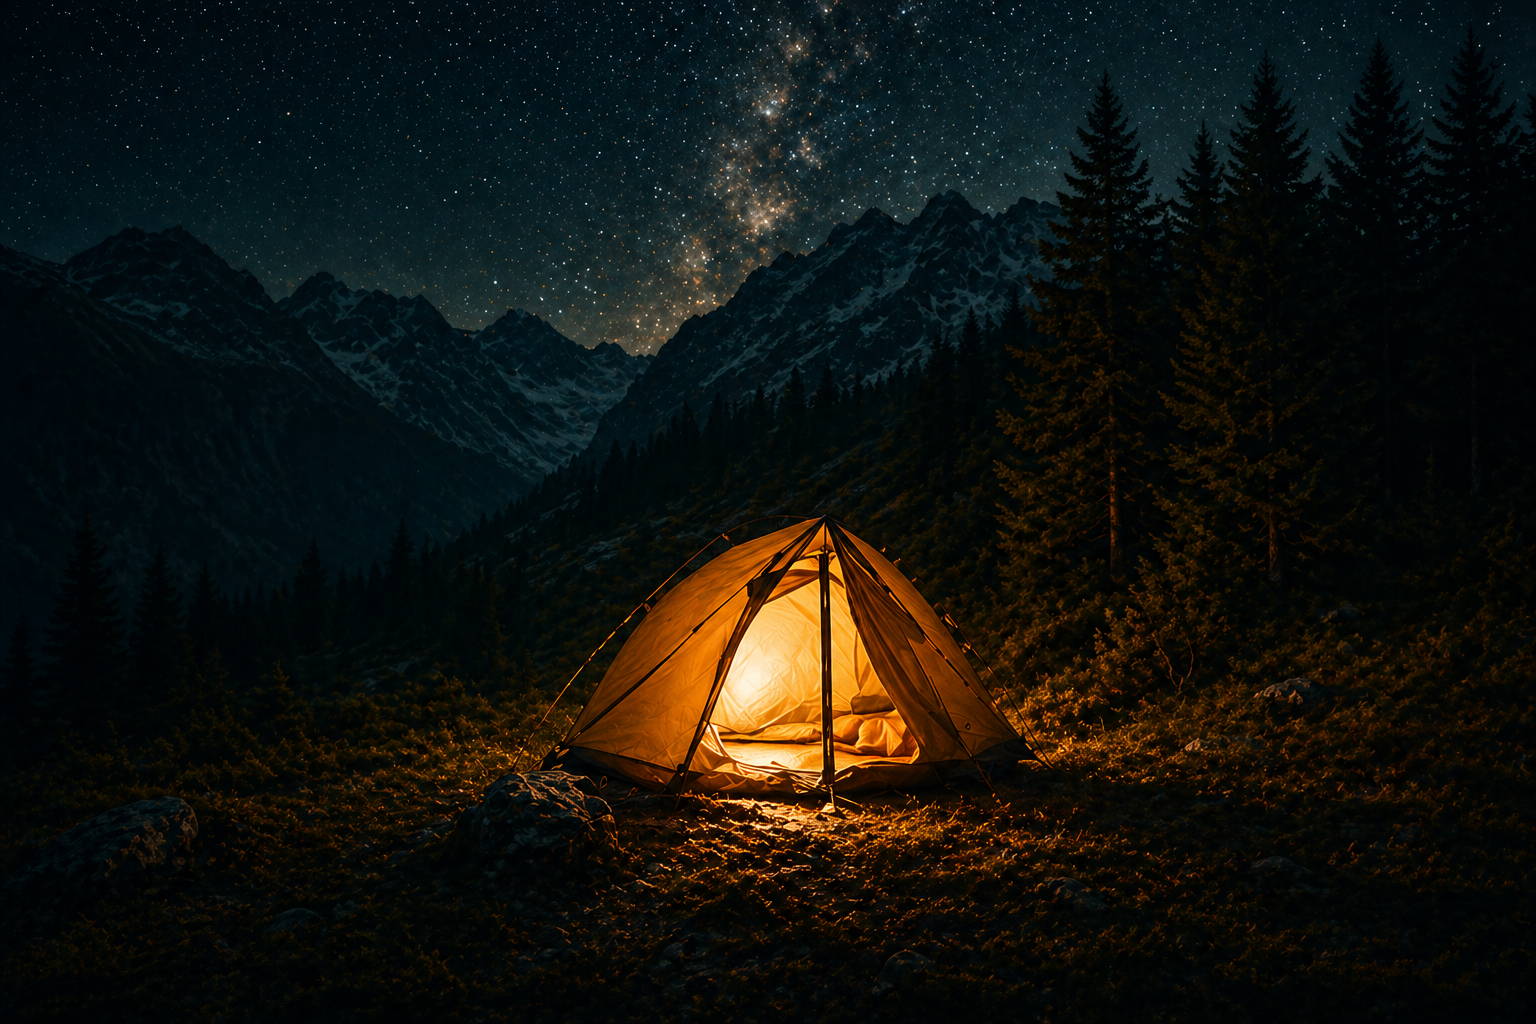
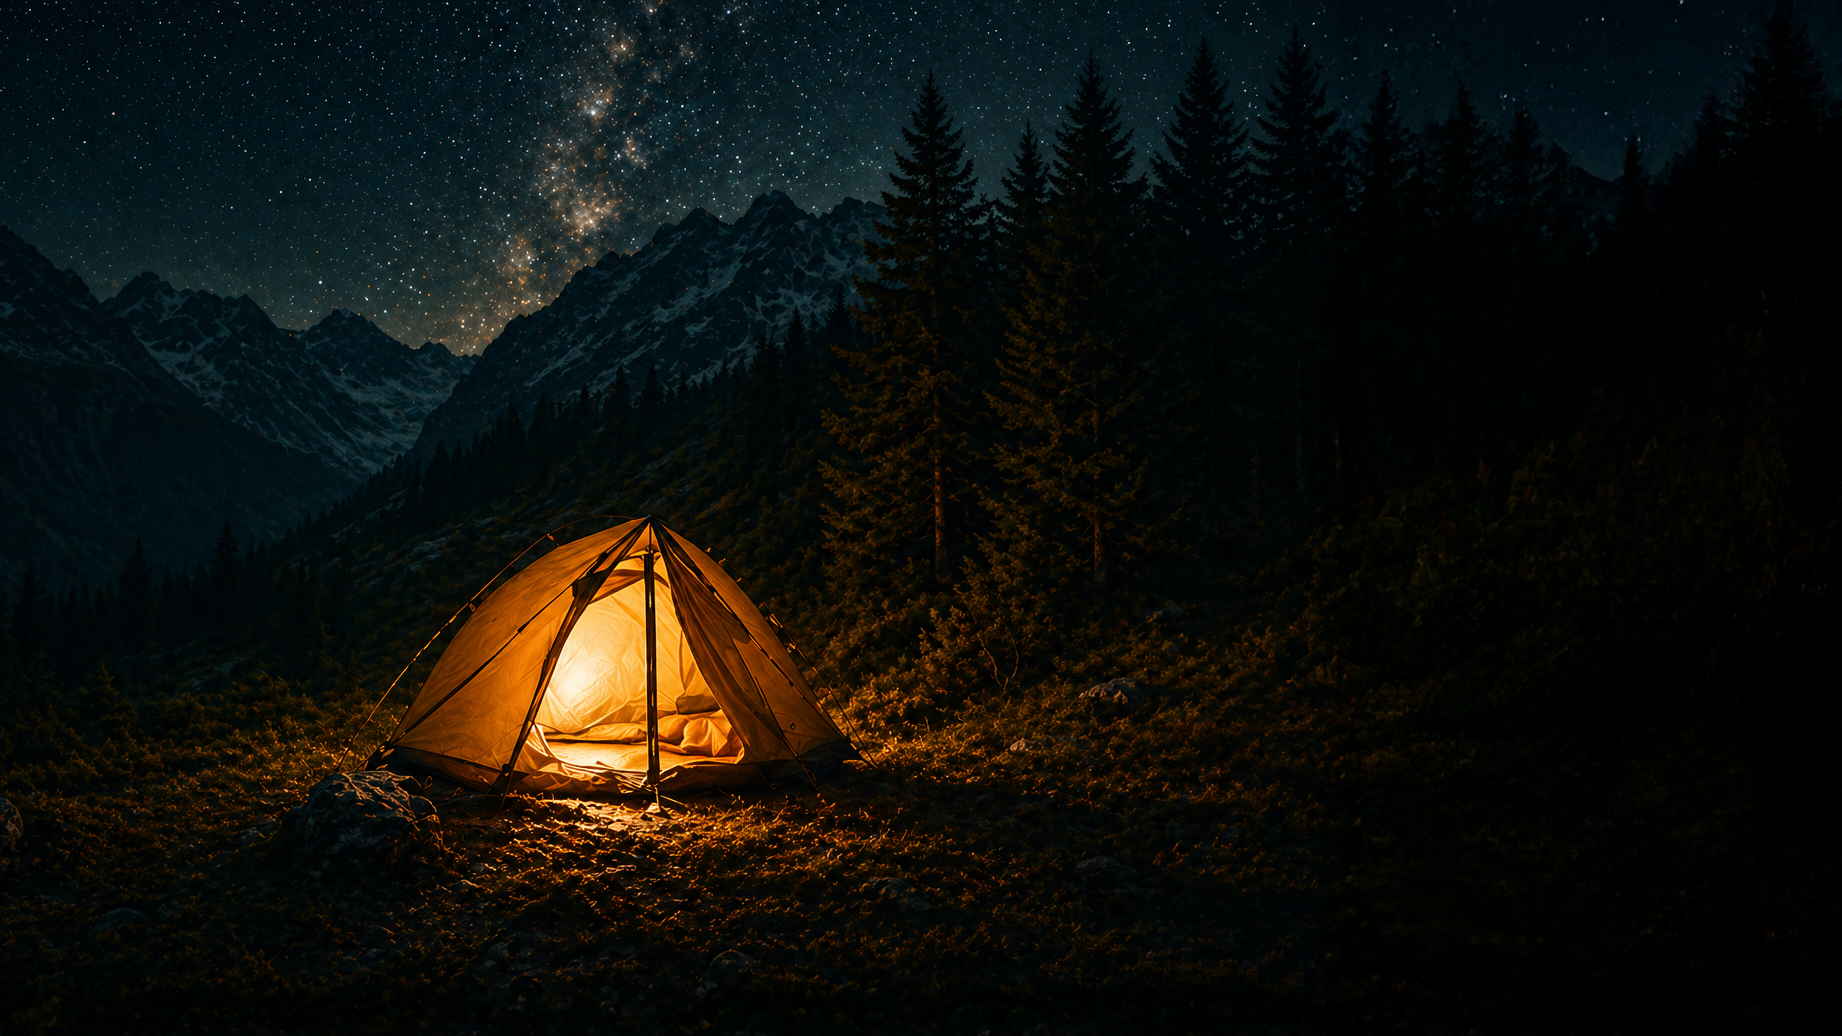
refactor(auth-v2): full-bleed tent hero, replace asset
Use one background image (object-left) for the full viewport; gradient scrim for form legibility. Replace public/auth/dark-glowing-tent.png with updated tent-left art from company assets.

diff --git a/src/components/auth/v2/AuthV2Shell.tsx b/src/components/auth/v2/AuthV2Shell.tsx
@@ -26,9 +26,9 @@ const HERO: Record<Mode, { title: ReactNode }> = {
   },
 }
 
-/** Northern-lights / aurora-style deep green base + glowing mint bands */
+/** Subtle northern-lights wash over the photo (keeps forest-green theme). */
 const auroraLayerClass =
-  'pointer-events-none absolute inset-0 [background:radial-gradient(ellipse_90%_55%_at_15%_15%,rgba(34,197,94,0.2),transparent_55%),radial-gradient(ellipse_70%_50%_at_85%_20%,rgba(16,185,129,0.16),transparent_50%),radial-gradient(ellipse_100%_60%_at_50%_85%,rgba(6,78,59,0.5),transparent_55%),linear-gradient(180deg,rgba(1,8,4,0.4)_0%,transparent_40%,rgba(1,8,4,0.5)_100%)]'
+  'pointer-events-none absolute inset-0 mix-blend-soft-light [background:radial-gradient(ellipse_90%_55%_at_15%_15%,rgba(34,197,94,0.12),transparent_55%),radial-gradient(ellipse_70%_50%_at_85%_20%,rgba(16,185,129,0.1),transparent_50%)]'
 
 type ShellProps = {
   mode: Mode
@@ -40,63 +40,64 @@ type ShellProps = {
 export function AuthV2Shell({ mode, children, stats, rating }: ShellProps) {
   const h = HERO[mode]
   return (
-    <div
-      className={cn(
-        'relative flex min-h-dvh w-full flex-col overflow-x-hidden text-white',
-        'bg-[#020a07]',
-      )}
-    >
+    <div className="relative min-h-dvh w-full overflow-x-hidden text-white">
+      {/* Full-bleed hero — tent composition on the left; form sits on the right over the same image */}
+      <Image
+        src={HERO_IMAGE}
+        alt=""
+        fill
+        className="object-cover object-left"
+        priority
+        sizes="100vw"
+      />
+      {/* Readability: light scrim on tent side, stronger on the right for the form */}
+      <div
+        className="absolute inset-0 bg-gradient-to-r from-black/25 via-[#010806]/35 to-[#010806]/78 md:via-[#010806]/40 md:to-[#010806]/85"
+        aria-hidden
+      />
       <div className={auroraLayerClass} aria-hidden />
-      <div className="relative z-[1] mx-auto flex min-h-dvh w-full max-w-[1920px] flex-1 flex-col md:flex-row">
-        {/* Visual column — stats sit on frosted glass at bottom of photo only */}
-        <div className="relative min-h-[min(52vh,520px)] w-full flex-shrink-0 md:min-h-dvh md:w-1/2 lg:w-[52%]">
-          <Image
-            src={HERO_IMAGE}
-            alt=""
-            fill
-            className="object-cover object-center"
-            priority
-            sizes="(min-width: 768px) 50vw, 100vw"
-          />
-          <div
-            className="absolute inset-0 bg-gradient-to-t from-[#010806] via-[#010806]/25 to-[#010806]/30 md:bg-gradient-to-r md:from-[#010806]/35 md:via-[#010806]/15 md:to-[#010806]/5"
-            aria-hidden
-          />
-          <div className="absolute inset-0 flex min-h-0 flex-col p-4 sm:p-5 md:p-8 lg:p-10">
-            <AuthV2TopBar />
-            <div className="mt-6 min-w-0 sm:mt-8 md:mt-10 lg:mt-12">
-              <h1 className="text-balance pr-1">{h.title}</h1>
-            </div>
-            <div className="mt-auto w-full min-w-0 pt-6 md:pt-8">
-              <div
-                className={cn(
-                  'w-full max-w-full rounded-2xl border border-white/20 bg-white/[0.08] p-3 shadow-[0_8px_32px_rgba(0,0,0,0.35)]',
-                  'backdrop-blur-xl backdrop-saturate-150 [box-shadow:inset_0_1px_0_0_rgba(255,255,255,0.12)]',
-                  'ring-1 ring-white/10 sm:p-4 md:rounded-3xl md:p-5',
-                )}
-              >
-                <AuthV2Stats
-                  stats={stats}
-                  rating={rating}
-                  className="!max-w-full gap-x-3 gap-y-3 sm:gap-4 md:gap-6 md:justify-center"
-                />
-              </div>
+
+      <div className="relative z-10 mx-auto flex min-h-dvh w-full max-w-[1920px] flex-col lg:flex-row">
+        {/* Left: wordmark, headline, frosted stats — over tent */}
+        <div
+          className={cn(
+            'flex min-h-[min(58vh,560px)] w-full min-w-0 flex-1 flex-col p-4 sm:p-5 md:p-8 lg:min-h-dvh lg:w-[48%] lg:max-w-[52%] lg:py-10',
+            'lg:pr-4',
+          )}
+        >
+          <AuthV2TopBar />
+          <div className="mt-6 min-w-0 sm:mt-8 md:mt-10 lg:mt-12">
+            <h1 className="text-balance pr-1">{h.title}</h1>
+          </div>
+          <div className="mt-auto w-full min-w-0 pt-6 lg:pt-8">
+            <div
+              className={cn(
+                'w-full max-w-full rounded-2xl border border-white/20 bg-white/[0.08] p-3 shadow-[0_8px_32px_rgba(0,0,0,0.35)]',
+                'backdrop-blur-xl backdrop-saturate-150 [box-shadow:inset_0_1px_0_0_rgba(255,255,255,0.12)]',
+                'ring-1 ring-white/10 sm:p-4 md:rounded-3xl md:p-5',
+              )}
+            >
+              <AuthV2Stats
+                stats={stats}
+                rating={rating}
+                className="!max-w-full gap-x-3 gap-y-3 sm:gap-4 md:gap-6 md:justify-center"
+              />
             </div>
           </div>
         </div>
 
-        {/* Form column */}
+        {/* Right: auth form on the same full-bleed image */}
         <div
           className={cn(
-            'relative z-[1] -mt-8 flex w-full flex-1 flex-col justify-stretch md:mt-0',
-            'px-4 pb-6 pt-0 md:min-h-0 md:justify-center md:px-8 md:py-8 lg:px-12',
+            'flex w-full flex-1 flex-col justify-stretch',
+            'px-4 pb-6 pt-2 lg:min-h-dvh lg:w-[52%] lg:min-w-0 lg:justify-center lg:px-10 lg:py-8 xl:px-14',
             'min-h-0',
           )}
         >
           <div
             className={cn(
-              'mx-auto w-full max-w-md rounded-2xl border border-white/10 bg-zinc-950/75 p-5 shadow-2xl shadow-black/40 backdrop-blur-md',
-              'md:mx-0 md:max-w-lg md:rounded-3xl md:p-8 md:py-9',
+              'mx-auto w-full max-w-md rounded-2xl border border-white/10 bg-zinc-950/80 p-5 shadow-2xl shadow-black/50 backdrop-blur-md',
+              'lg:mx-0 lg:ml-auto lg:max-w-lg lg:rounded-3xl lg:p-8 lg:py-9',
             )}
           >
             {children}
